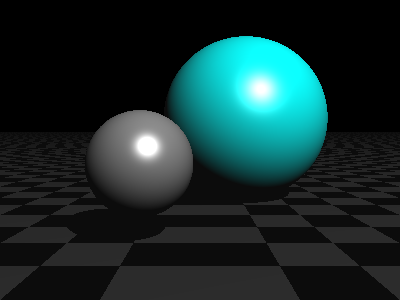
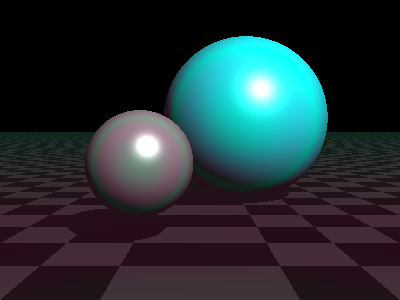
feat: add iridescence

diff --git a/ray_tracer/infrastructure.py b/ray_tracer/infrastructure.py
@@ -83,6 +83,7 @@ class NumpyShader(Shader):
         reflection_gain: float,
         specular_gain: float,
         specular_roughness: float,
+        iridescence_gain: float,
     ):
         self.shape = shape
         self.ray_tracer = ray_tracer
@@ -93,6 +94,7 @@ class NumpyShader(Shader):
         self.reflection_gain = reflection_gain
         self.specular_gain = specular_gain
         self.specular_roughness = specular_roughness
+        self.iridescence_gain = iridescence_gain
 
         self.shader = self.create()
 
@@ -128,21 +130,19 @@ class NumpyShader(Shader):
             intersection_point, normal, direction_to_light, is_in_light
         )
 
-        color += (
-            self._calculate_reflection(
-                nudged_intersection_point,
-                normal,
-            )
-            * self.reflection_gain
+        color += self._calculate_reflection(
+            nudged_intersection_point,
+            normal,
         )
 
         color += (
             self._calculate_phong_specular(
                 normal, direction_to_light, direction_to_ray_origin
             )
-            * self.specular_gain
             * is_in_light
         )
+
+        color += self._calculate_iridescence(normal, direction_to_ray_origin)
 
         return color
 
@@ -188,6 +188,7 @@ class NumpyShader(Shader):
                 self.scene,
             )
             * self.shape.mirror
+            * self.reflection_gain
         )
 
     def _calculate_phong_specular(
@@ -201,12 +202,38 @@ class NumpyShader(Shader):
             (1 - self.specular_roughness) * 100
         )  # more user friendly to have roughness between 0 and 1 where 0 means no roughness and 1 means very rough
 
-        return NumpyRGBColor(1, 1, 1) * np.power(
-            np.clip(normal.dot(phong), 0, 1), unclamped_roughness
+        return (
+            NumpyRGBColor(1, 1, 1)
+            * np.power(np.clip(normal.dot(phong), 0, 1), unclamped_roughness)
+            * self.specular_gain
         )
 
     def _calculate_ambient_color(self) -> NumpyRGBColor:
         return NumpyRGBColor(0.05, 0.05, 0.05)
+
+    def _calculate_iridescence(
+        self,
+        normal: NumpyVector3D,
+        direction_to_ray_origin: NumpyVector3D,
+    ) -> NumpyRGBColor:
+        """Irisdescence effect based on the angle between the normal and the direction to the ray origin.
+        The more the angle is close to 90 degrees, the more the iridescence effect is visible.
+        The iridescence effect is more pronounced at the edges of the object.
+        """
+        view_angle = np.clip(normal.dot(direction_to_ray_origin), 0.0, 1.0)
+
+        # L'iridescence est plus marquée lorsque l'angle entre la normale et la vue est plus grand (bordures)
+        iridescence_factor = (
+            np.abs(view_angle - 0.5)
+            * 2  # 0.5 is the middle of the angle, it amplifies the effect on the edges
+        )
+
+        color_variation = np.sin(iridescence_factor * np.pi)
+        iridescence_color = NumpyRGBColor(
+            color_variation, 1 - color_variation, 0.5
+        )  # modify z to shift the color
+
+        return iridescence_color * self.iridescence_gain
 
 
 class NumpySphere(Shape):
@@ -325,10 +352,12 @@ class NumpyRenderer(Renderer):
         reflection_gain: float = 0.0,
         specular_gain: float = 1.0,
         specular_roughness: float = 0.5,
+        iridescence_gain: float = 0.0,
     ) -> None:
         self.reflection_gain = reflection_gain
         self.specular_gain = specular_gain
         self.specular_roughness = specular_roughness
+        self.iridescence_gain = iridescence_gain
 
     def raytrace_scene(
         self,
@@ -364,6 +393,7 @@ class NumpyRenderer(Renderer):
                     self.reflection_gain,
                     self.specular_gain,
                     self.specular_roughness,
+                    self.iridescence_gain,
                 ).to_rgb()
 
                 color += computed_color.place(hit)

diff --git a/main.py b/main.py
@@ -12,7 +12,7 @@ from ray_tracer.infrastructure import (
 )
 
 if __name__ == "__main__":
-    renderer = NumpyRenderer(0.0, 1.0, 0.5)
+    renderer = NumpyRenderer(0.0, 1.0, 0.5, 0.1)
 
     scene = Scene3D(
         [
